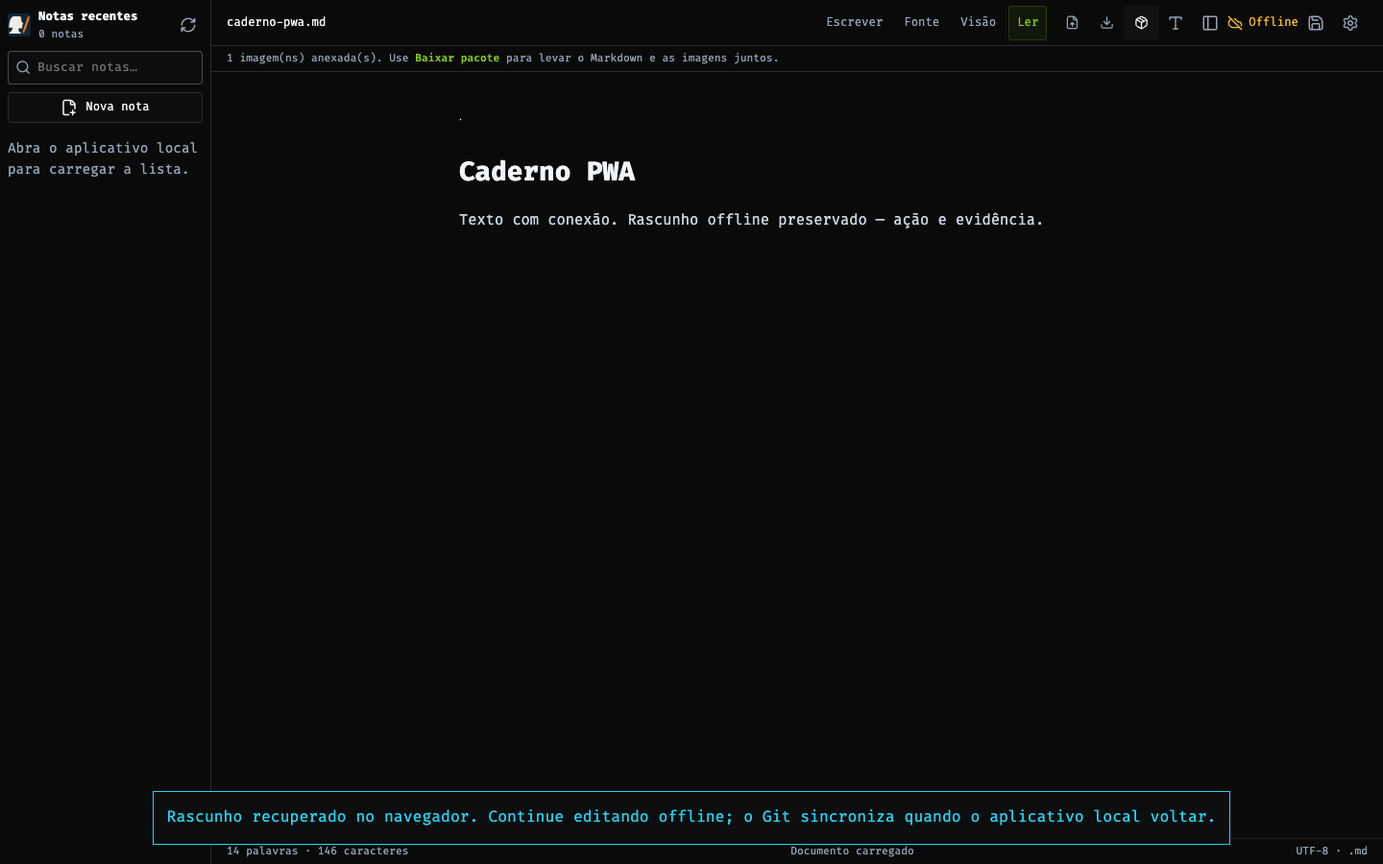
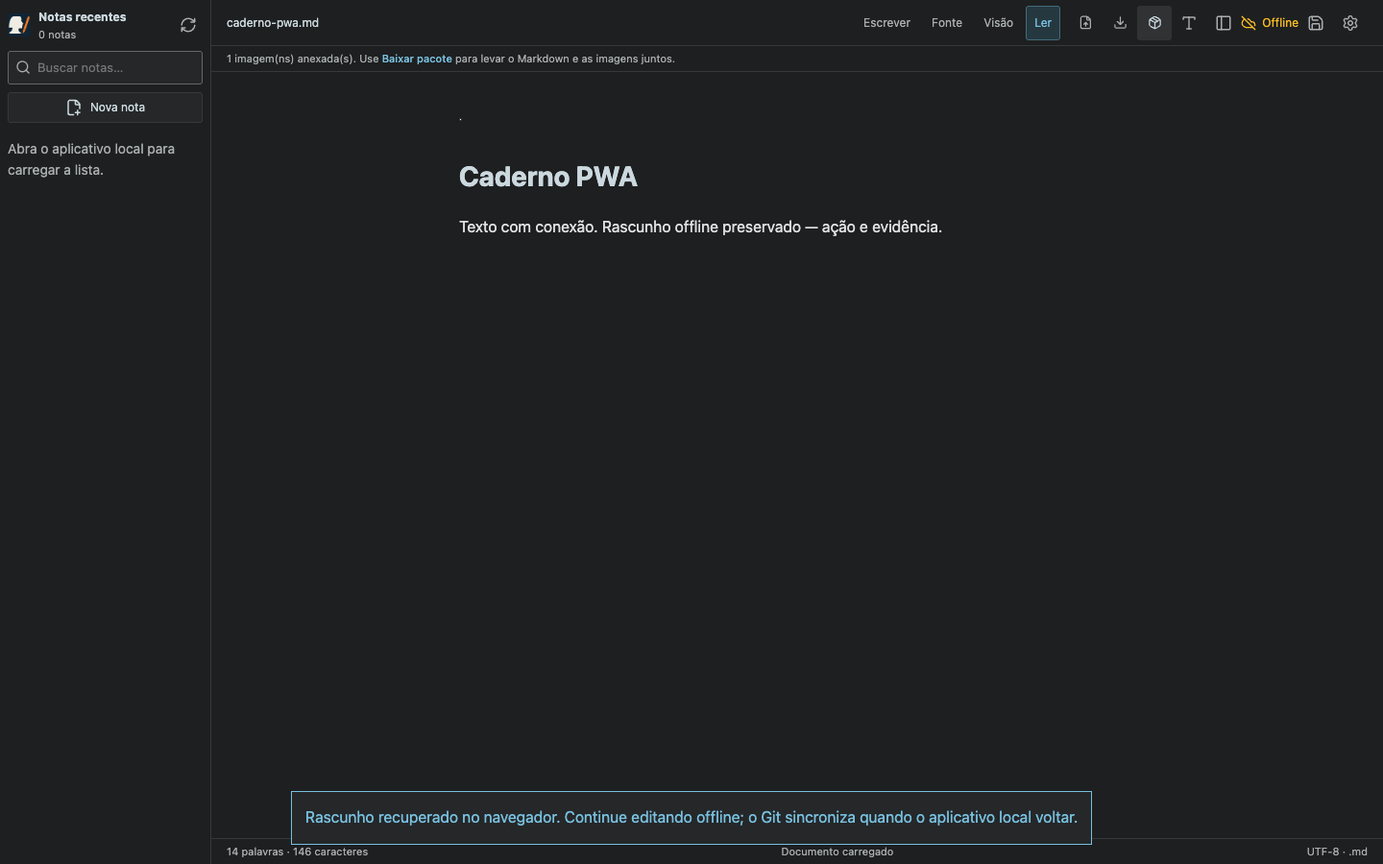
feat: pin notes, seed platform guide, group dates and soften reading theme

diff --git a/src/main.tsx b/src/main.tsx
@@ -1,7 +1,8 @@
 import { StrictMode, useCallback, useEffect, useRef, useState } from 'react';
 import { createRoot } from 'react-dom/client';
-import { FolderGit2, FolderOpen, Save, Upload, Sun, Moon, FilePlus2, Settings, X, Download, CloudOff, PanelLeft, FileText, RefreshCw, Search } from 'lucide-react';
+import { FolderGit2, FolderOpen, Save, Upload, Sun, Moon, FilePlus2, Settings, X, Download, CloudOff, PanelLeft, FileText, RefreshCw, Search, Pin, PinOff } from 'lucide-react';
 import { MarkdownWorkbench } from './components/Markdown/MarkdownWorkbench';
+import { noteGroup, shortNoteDate } from './lib/noteDates';
 import { usePwa } from './usePwa';
 import { authorizedFetch } from './lib/session';
 import { loadDraft, persistDraft, type DraftSnapshot } from './lib/drafts';
@@ -19,6 +20,14 @@ interface RecentNote {
   /** Markdown heading and short plain-text preview for the note list. */
   title?: string;
   preview?: string;
+}
+interface NoteLibrary {
+  /** Manually ordered pinned notes for the current checkout. */
+  pinned: RecentNote[];
+  /** Latest 100 non-pinned notes, newest first. */
+  recent: RecentNote[];
+  /** Initial guide synchronization may require a Git retry. */
+  synchronization?: SaveResult;
 }
 const brandIcon = '/icons/profile-v3/scribe-64.png';
 interface RepositoryInfo {
@@ -112,10 +121,16 @@ function App() {
   const [destination, setDestination] = useState('');
   const [files, setFiles] = useState<string[]>([]);
   const [recentNotes, setRecentNotes] = useState<RecentNote[]>([]);
+  const [pinnedNotes, setPinnedNotes] = useState<RecentNote[]>([]);
+  const [dateClock, setDateClock] = useState(Date.now());
+  useEffect(() => { const timer = window.setInterval(() => setDateClock(Date.now()), 60000); return () => window.clearInterval(timer); }, []);
   const [noteSearch, setNoteSearch] = useState('');
   const normalizeSearch = (text: string) => text.normalize('NFD').replace(/[\u0300-\u036f]/g, '').toLocaleLowerCase('pt-BR');
   const query = normalizeSearch(noteSearch.trim());
-  const visibleNotes = recentNotes.filter(note => !query || normalizeSearch(`${note.name} ${note.title || ''} ${note.preview || ''}`).includes(query));
+  const matchesNote = (note: RecentNote) => !query || normalizeSearch(`${note.name} ${note.title || ''} ${note.preview || ''}`).includes(query);
+  const visibleNotes = recentNotes.filter(matchesNote);
+  const visiblePinned = pinnedNotes.filter(matchesNote);
+  const noteGroups = [{label:'Fixadas', notes:visiblePinned, pinned:true}, ...['Hoje', 'Ontem', 'Últimos 7 dias', 'Mais antigas'].map(label => ({label, notes:visibleNotes.filter(note => noteGroup(note.modifiedAt, dateClock) === label), pinned:false}))].filter(group => group.notes.length);
   const [notesOpen, setNotesOpen] = useState(() => window.matchMedia('(min-width: 900px)').matches);
   const [selected, setSelected] = useState('');
   const [name, setName] = useState('documento.md');
@@ -144,10 +159,21 @@ function App() {
   const [theme, setTheme] = useState(() => localStorage.getItem('ab-markdown-theme') || 'dark');
   const dirty = value !== baseline || name !== loadedName;
   useEffect(() => { document.documentElement.dataset.theme = theme; localStorage.setItem('ab-markdown-theme', theme); }, [theme]);
+  async function refreshLibrary() {
+    const library = await api<NoteLibrary>('library/initialize', {});
+    setRecentNotes(library.recent); setPinnedNotes(library.pinned);
+    if (library.synchronization && !library.synchronization.synced) setError(`Guia criado localmente; sincronização pendente: ${library.synchronization.error}`);
+  }
+  async function togglePin(note: RecentNote, pinned: boolean) {
+    await run(async () => {
+      const library = await api<NoteLibrary>('pin', {name:note.name, pinned});
+      setRecentNotes(library.recent); setPinnedNotes(library.pinned);
+    });
+  }
   async function refresh() {
     const info = await api<RepositoryInfo>('repository'); setRepository(info);
     setFiles(info.repository ? await api<string[]>('files') : []);
-    setRecentNotes(info.repository ? await api<RecentNote[]>('recent') : []);
+    if (info.repository) await refreshLibrary(); else { setRecentNotes([]); setPinnedNotes([]); }
     return info;
   }
   useEffect(() => {
@@ -173,7 +199,7 @@ function App() {
           setSettingsOpen(true);
         } else {
           setRepository(info); setFiles(info.repository ? await api<string[]>('files') : []);
-          setRecentNotes(info.repository ? await api<RecentNote[]>('recent') : []);
+          if (info.repository) await refreshLibrary(); else { setRecentNotes([]); setPinnedNotes([]); }
           if (!info.repository) setSettingsOpen(true);
         }
         if (!active) return;
@@ -358,13 +384,16 @@ function App() {
     {!settingsOpen && statusMessages}
     <div className="editor-layout">
     {notesOpen && <aside id="recent-notes" className="notes-sidebar" aria-label="Notas recentes">
-      <div className="notes-heading"><img className="notes-logo" src={brandIcon} width="24" height="24" alt="Escriba egípcio — AB Markdown"/><div><h2>Notas recentes</h2><p>{query ? `${visibleNotes.length} de ${recentNotes.length}` : `${recentNotes.length} notas`}</p></div><button type="button" className="close-notes" aria-label="Fechar lista de notas" onClick={() => setNotesOpen(false)}><X size={18}/></button><button type="button" aria-label="Atualizar notas recentes" disabled={busy || !repository.repository || offline} onClick={() => void run(async () => { await refresh(); })}><RefreshCw size={18}/></button></div>
+      <div className="notes-heading"><img className="notes-logo" src={brandIcon} width="24" height="24" alt="Escriba egípcio — AB Markdown"/><div><h2>Notas recentes</h2><p>{query ? `${visibleNotes.length + visiblePinned.length} resultados` : `${recentNotes.length + pinnedNotes.length} notas`}</p></div><button type="button" className="close-notes" aria-label="Fechar lista de notas" onClick={() => setNotesOpen(false)}><X size={18}/></button><button type="button" aria-label="Atualizar notas recentes" disabled={busy || !repository.repository || offline} onClick={() => void run(async () => { await refresh(); })}><RefreshCw size={18}/></button></div>
       <label className="notes-search"><Search size={16} aria-hidden="true"/><input type="search" aria-label="Buscar nas notas recentes" placeholder="Buscar notas…" value={noteSearch} onChange={event => setNoteSearch(event.target.value)}/></label>
-      {query && !visibleNotes.length && <p className="notes-empty">Nenhuma nota encontrada.</p>}
+      {query && !visibleNotes.length && !visiblePinned.length && <p className="notes-empty">Nenhuma nota encontrada.</p>}
       <button className="new-note" type="button" disabled={busy || !draftReady} onClick={() => { if (discard()) { resetDocument(); if (window.matchMedia('(max-width: 899px)').matches) setNotesOpen(false); } }}><FilePlus2 size={18}/>Nova nota</button>
       {!repository.repository && <p className="notes-empty">Conecte um repositório nas configurações para listar suas notas.</p>}
-      {repository.repository && !recentNotes.length && <p className="notes-empty">{offline ? 'Abra o aplicativo local para carregar a lista.' : 'Nenhuma nota Markdown encontrada.'}</p>}
-      <nav aria-label="100 notas mais recentes"><ol>{visibleNotes.map(note => <li key={note.name}><button type="button" disabled={busy || !draftReady || offline} aria-current={name === note.name && version ? 'page' : undefined} title={note.name} aria-label={note.name} onClick={() => void openNote(note.name)}><FileText size={16}/><span><strong>{note.title || note.name.split('/').at(-1)}</strong>{note.preview && <span className="note-preview">{note.preview}</span>}{note.name.includes('/') && <small>{note.name.slice(0, note.name.lastIndexOf('/'))}</small>}<time dateTime={note.modifiedAt}>{new Date(note.modifiedAt).toLocaleString('pt-BR', {day:'2-digit', month:'2-digit', year:'numeric', hour:'2-digit', minute:'2-digit'})}</time></span></button></li>)}</ol></nav>
+      {repository.repository && !recentNotes.length && !pinnedNotes.length && <p className="notes-empty">{offline ? 'Abra o aplicativo local para carregar a lista.' : 'Nenhuma nota Markdown encontrada.'}</p>}
+      <nav aria-label="100 notas mais recentes">{noteGroups.map(group => <section className="note-group" key={group.label} aria-label={group.label}><h3>{group.label}</h3><ol>{group.notes.map(note => <li className="note-row" key={note.name} data-note={note.name}>
+        <button className="open-note" type="button" disabled={busy || !draftReady || offline} aria-current={name === note.name && version ? 'page' : undefined} title={note.name} aria-label={note.name} onClick={() => void openNote(note.name)}><span><strong>{note.title || note.name.split('/').at(-1)}</strong>{note.preview && <span className="note-preview">{note.preview}</span>}<time dateTime={note.modifiedAt} title={new Date(note.modifiedAt).toLocaleString('pt-BR')}>{group.pinned && <Pin size={11} aria-label="Nota fixada"/>}{shortNoteDate(note.modifiedAt, dateClock)}</time></span></button>
+        <button className="pin-note" type="button" disabled={busy || offline} aria-label={`${group.pinned ? 'Desafixar' : 'Fixar'} ${note.name}`} title={group.pinned ? 'Desafixar nota' : 'Fixar nota'} onClick={() => void togglePin(note, !group.pinned)}>{group.pinned ? <PinOff size={14}/> : <Pin size={14}/>}</button>
+      </li>)}</ol></section>)}</nav>
     </aside>}
     <fieldset disabled={!draftReady || busy} className="editor-container"><MarkdownWorkbench compact key={documentId} value={value} onChange={setValue} fileName={name} onFileNameChange={newName => { setName(newName); setVersion(null); setLoadedName(''); setImportedVersion(null); }} onImport={registerImport} initialAssets={initialAssets} onAssetsChange={handleAssets} saveRevision={saveRevision} readOnly={!draftReady || busy} actions={<>
       <button type="button" aria-controls="recent-notes" aria-expanded={notesOpen} aria-label={notesOpen ? 'Ocultar notas recentes' : 'Mostrar notas recentes'} title="Notas recentes" onClick={() => setNotesOpen(open => !open)}><PanelLeft size={18}/></button>

diff --git a/tests/sidebar.spec.ts b/tests/sidebar.spec.ts
@@ -8,7 +8,7 @@ for(const viewport of [{name:'desktop',width:1440,height:900},{name:'mobile',wid
   try {
    git('init','-b','main',repo);git('init','--bare','-b','main',remote);
    for(const [key,value] of [['user.name','Sidebar Test'],['user.email','sidebar@example.invalid'],['commit.gpgsign','false'],['core.hooksPath','/dev/null']])git('-C',repo,'config',key,value);
-   for(let i=0;i<105;i++){const filename=join(repo,`note-${String(i).padStart(3,'0')}.md`);await writeFile(filename,`# Nota ${i}\n\nConteúdo ${i}.`);const time=new Date(Date.UTC(2020,0,1,0,0,i));await utimes(filename,time,time);}
+   for(let i=0;i<105;i++){const filename=join(repo,`note-${String(i).padStart(3,'0')}.md`);await writeFile(filename,`# Nota ${i}\n\nConteúdo ${i}.`);const time=i>=102 ? new Date(Date.now()-(104-i)*86400000-2*3600000) : new Date(Date.UTC(2020,0,1,0,0,i));await utimes(filename,time,time);}
    git('-C',repo,'add','.');git('-C',repo,'commit','-m','Initial');git('-C',repo,'remote','add','origin',remote);git('-C',repo,'push','-u','origin','main');
    await page.setViewportSize(viewport);await page.goto('/');const settings=page.getByRole('dialog',{name:'Configurações',exact:true});await expect(settings).toBeVisible();
    if(!(await page.locator('details.repository').evaluate(el=>el.hasAttribute('open'))))await page.locator('details.repository > summary').click();
@@ -17,23 +17,31 @@ for(const viewport of [{name:'desktop',width:1440,height:900},{name:'mobile',wid
    const brand=page.locator('.notes-logo');await expect(brand).toBeVisible();await expect(brand).toHaveAttribute('src','/icons/profile-v3/scribe-64.png');
    expect(await brand.evaluate((el:HTMLImageElement)=>el.complete&&el.naturalWidth===64)).toBe(true);
    const favicon=page.locator('link[rel="icon"][type="image/png"]');await expect(favicon).toHaveAttribute('href','/icons/profile-v3/scribe-32.png');expect((await page.request.get((await favicon.getAttribute('href'))!)).status()).toBe(200);
-   const sidebar=page.getByRole('complementary',{name:'Notas recentes'});await expect(sidebar.locator('nav li')).toHaveCount(100);await expect(sidebar.locator('nav strong').first()).toHaveText('Nota 104');await expect(sidebar.locator('nav strong').last()).toHaveText('Nota 5');
+   const sidebar=page.getByRole('complementary',{name:'Notas recentes'});const recent=sidebar.locator('nav section:not([aria-label="Fixadas"])');const pinned=sidebar.getByRole('region',{name:'Fixadas',exact:true});await expect(pinned.locator('strong').first()).toHaveText('AB Markdown — Guia da plataforma');await expect(recent.locator('li')).toHaveCount(100);await expect(recent.locator('strong').first()).toHaveText('Nota 104');await expect(recent.locator('strong').last()).toHaveText('Nota 5');
+   await sidebar.getByRole('button',{name:'Fixar note-104.md',exact:true}).click();await expect(pinned.locator('strong')).toHaveText(['AB Markdown — Guia da plataforma','Nota 104']);
+   await sidebar.getByRole('button',{name:'Desafixar note-104.md',exact:true}).click();await expect(pinned.locator('strong')).toHaveCount(1);
+   await expect(sidebar.getByRole('heading',{name:'Hoje',exact:true})).toBeVisible();await expect(sidebar.getByRole('heading',{name:'Ontem',exact:true})).toBeVisible();await expect(sidebar.getByRole('heading',{name:'Últimos 7 dias',exact:true})).toBeVisible();
+   await expect(sidebar.locator('[data-note="note-104.md"] time')).toContainText(/há 2 h/);
    await expect(page.locator('.editor-brandbar')).toHaveCount(0);
    const search=page.getByRole('searchbox',{name:'Buscar nas notas recentes'});
-   await search.fill('NOTA 104');await expect(sidebar.locator('nav li')).toHaveCount(1);
-   await search.fill('Conteudo 103');await expect(sidebar.locator('nav li')).toHaveCount(1);await expect(sidebar.locator('nav strong').first()).toHaveText('Nota 103');
-   await search.fill('note-102.md');await expect(sidebar.locator('nav li')).toHaveCount(1);
-   await search.fill('inexistente');await expect(sidebar.locator('nav li')).toHaveCount(0);await expect(sidebar).toContainText('Nenhuma nota encontrada.');
-   await search.fill('');await expect(sidebar.locator('nav li')).toHaveCount(100);
-   await expect(sidebar.locator('.note-preview').first()).toContainText('Conteúdo 104');
+   await search.fill('NOTA 104');await expect(recent.locator('li')).toHaveCount(1);
+   await search.fill('Conteudo 103');await expect(recent.locator('li')).toHaveCount(1);await expect(recent.locator('strong').first()).toHaveText('Nota 103');
+   await search.fill('note-102.md');await expect(recent.locator('li')).toHaveCount(1);
+   await search.fill('inexistente');await expect(recent.locator('li')).toHaveCount(0);await expect(sidebar).toContainText('Nenhuma nota encontrada.');
+   await search.fill('');await expect(recent.locator('li')).toHaveCount(100);
+   await expect(recent.locator('.note-preview').first()).toContainText('Conteúdo 104');
    expect(await page.evaluate(()=>document.documentElement.scrollHeight<=innerHeight)).toBe(true);
    await page.screenshot({path:`docs/evidence/${viewport.name}-recent-notes-dark.png`,fullPage:true});
-   await sidebar.getByRole('button',{name:/note-104.md/}).click();await page.getByRole('button',{name:'Fonte',exact:true}).click();await page.getByRole('button',{name:'Mostrar formatação'}).click();await expect(page.getByRole('button',{name:'Negrito',exact:true})).toBeVisible();await page.getByRole('button',{name:'Ocultar formatação'}).click();const source=page.locator('.cm-content');await expect(source).toContainText('Conteúdo 104');await source.click();await page.keyboard.insertText('Edição preservada');
+   await pinned.getByRole('button',{name:'AB-Markdown-Guia.md',exact:true}).click();await page.getByRole('button',{name:'Ler',exact:true}).click();await expect(page.locator('article')).toContainText('Roadmap previsto');
+   expect(await page.locator('article').evaluate(el=>getComputedStyle(el).fontFamily)).not.toContain('mono');
+   await page.screenshot({path:`docs/evidence/${viewport.name}-guide-reading-dark.png`,fullPage:true});
    if(viewport.name==='mobile')await page.getByRole('button',{name:'Mostrar notas recentes'}).click();
-   page.once('dialog',dialog=>dialog.dismiss());await sidebar.getByRole('button',{name:/note-103.md/}).click();await expect(source).toContainText('Edição preservada');
-   page.once('dialog',dialog=>dialog.accept());await sidebar.getByRole('button',{name:/note-103.md/}).click();await page.getByRole('button',{name:'Fonte',exact:true}).click();await expect(source).toContainText('Conteúdo 103');await source.click();await page.keyboard.insertText('Atualizado');
+   await sidebar.getByRole('button',{name:'note-104.md',exact:true}).click();await page.getByRole('button',{name:'Fonte',exact:true}).click();await page.getByRole('button',{name:'Mostrar formatação'}).click();await expect(page.getByRole('button',{name:'Negrito',exact:true})).toBeVisible();await page.getByRole('button',{name:'Ocultar formatação'}).click();const source=page.locator('.cm-content');await expect(source).toContainText('Conteúdo 104');await source.click();await page.keyboard.insertText('Edição preservada');
+   if(viewport.name==='mobile')await page.getByRole('button',{name:'Mostrar notas recentes'}).click();
+   page.once('dialog',dialog=>dialog.dismiss());await sidebar.getByRole('button',{name:'note-103.md',exact:true}).click();await expect(source).toContainText('Edição preservada');
+   page.once('dialog',dialog=>dialog.accept());await sidebar.getByRole('button',{name:'note-103.md',exact:true}).click();await page.getByRole('button',{name:'Fonte',exact:true}).click();await expect(source).toContainText('Conteúdo 103');await source.click();await page.keyboard.insertText('Atualizado');
    await page.getByRole('button',{name:'Salvar no repositório',exact:true}).click();await expect(page.getByRole('status')).toHaveText('Arquivo salvo, commit criado e enviado ao remoto.');
-   if(viewport.name==='mobile')await page.getByRole('button',{name:'Mostrar notas recentes'}).click();await expect(sidebar.locator('nav strong').first()).toHaveText('Nota 103');
+   if(viewport.name==='mobile')await page.getByRole('button',{name:'Mostrar notas recentes'}).click();await expect(recent.locator('strong').first()).toHaveText('Nota 103');
    await page.getByRole('button',{name:'Configurações',exact:true}).click();await page.getByRole('button',{name:'Usar tema claro'}).click();await settings.getByRole('button',{name:'Fechar',exact:true}).click();
    await page.screenshot({path:`docs/evidence/${viewport.name}-recent-notes-light.png`,fullPage:true});expect(await page.evaluate(()=>document.documentElement.scrollWidth<=innerWidth)).toBe(true);
   }finally{await rm(temporary,{recursive:true,force:true});}

diff --git a/src/style.css b/src/style.css
@@ -136,3 +136,17 @@ textarea { font: inherit; font-size: 16px; color: var(--text-primary); backgroun
 @media (max-width: 899px) { .notes-search input { min-height: 44px; font-size: 16px; } }
 .notes-heading .close-notes { display: none; }
 @media (max-width: 899px) { .notes-heading .close-notes { display: inline-flex; min-width: 44px; min-height: 44px; } }
+
+body { font-family: var(--font-ui); }
+.notes-sidebar nav strong, .note-preview, .notes-sidebar time { font-family: var(--font-ui); }
+.note-group h3 { color: var(--text-muted); font: 600 11px/1.5 var(--font-ui); margin: 16px 8px 4px; letter-spacing: .03em; }
+.note-row { position: relative; }
+.notes-sidebar nav .open-note { padding-right: 28px; }
+.notes-sidebar nav .pin-note { position: absolute; top: 5px; right: 0; width: 28px; min-height: 28px; padding: 6px; opacity: 0; }
+.notes-sidebar nav .pin-note svg { display: block; margin: 0; color: var(--text-muted); }
+.note-row:hover .pin-note, .note-row:focus-within .pin-note { opacity: 1; }
+.notes-sidebar time { display: flex; align-items: center; gap: 5px; }
+.notes-sidebar time svg { display: inline-block; margin: 0; color: var(--cyan); }
+@media (hover: none) { .notes-sidebar nav .pin-note { opacity: 1; } }
+@media (max-width: 899px) { .notes-sidebar nav .pin-note { opacity: 1; width: 44px; min-height: 44px; } .notes-sidebar nav .open-note { padding-right: 44px; } }
+.notes-sidebar nav .open-note time svg { display: inline-block; margin: 0; color: var(--cyan); }

diff --git a/src/lib/noteDates.ts b/src/lib/noteDates.ts
@@ -1,0 +1,21 @@
+/** Local-calendar groups keep yesterday stable across daylight-saving changes. */
+export function noteGroup(iso: string, now = Date.now()): string {
+  const today = new Date(now); today.setHours(0, 0, 0, 0);
+  const yesterday = new Date(today); yesterday.setDate(yesterday.getDate() - 1);
+  const week = new Date(today); week.setDate(week.getDate() - 7);
+  const stamp = Date.parse(iso);
+  return stamp >= +today ? 'Hoje' : stamp >= +yesterday ? 'Ontem' : stamp >= +week ? 'Últimos 7 dias' : 'Mais antigas';
+}
+/** Short metadata stays useful without repeating full timestamps on every row. */
+export function shortNoteDate(iso: string, now = Date.now()): string {
+  const elapsed = Math.max(0, now - Date.parse(iso));
+  if (elapsed < 60000) return 'agora';
+  const relative = new Intl.RelativeTimeFormat('pt-BR', {style:'short', numeric:'always'});
+  if (elapsed < 3600000) return relative.format(-Math.floor(elapsed / 60000), 'minute');
+  if (elapsed < 86400000) return relative.format(-Math.floor(elapsed / 3600000), 'hour');
+  if (noteGroup(iso, now) === 'Ontem') return 'ontem';
+  if (elapsed < 7 * 86400000) return relative.format(-Math.floor(elapsed / 86400000), 'day');
+  const date = new Date(iso);
+  const month = date.toLocaleDateString('pt-BR', {month:'short'}).replace('.', '');
+  return `${date.getDate()} ${month}${date.getFullYear() !== new Date(now).getFullYear() ? ` ${date.getFullYear()}` : ''}`;
+}

diff --git a/src/tokens.css b/src/tokens.css
@@ -929,3 +929,23 @@
   --scribe-orange: #ff7a18;
   --scribe-paper: #f1eee5;
 }
+
+/* Standalone reading palette: soft charcoal, warm paper and restrained blue accents. */
+:root, [data-theme="dark"] {
+  --font-ui: -apple-system, BlinkMacSystemFont, "Segoe UI", sans-serif;
+  --bg-base: #1e1f20; --bg-surface: #1e1f20; --bg-input: #252729;
+  --bg-elevated: #303234; --bg-subtle: #292b2d; --bg-hover: #2b2d2f; --bg-overlay: #252729;
+  --border-panel: #36393b; --border-base: #36393b; --border-strong: #62686c;
+  --text-primary: #cbd9df; --text-secondary: #dedfdf; --text-muted: #a9aeb1;
+  --text-dim: #a9aeb1; --text-label: #a9aeb1;
+  --lime: #78c0df; --cyan: #78c0df; --lime-dim: #426c7e; --lime-trace: #26383f;
+}
+[data-theme="light"] {
+  --font-ui: -apple-system, BlinkMacSystemFont, "Segoe UI", sans-serif;
+  --bg-base: #faf9f6; --bg-surface: #faf9f6; --bg-input: #f0efeb;
+  --bg-elevated: #e5e8e7; --bg-subtle: #eeefec; --bg-hover: #e9ece9; --bg-overlay: #f4f3ef;
+  --border-panel: #d4d8d6; --border-base: #d4d8d6; --border-strong: #7d8588;
+  --text-primary: #283842; --text-secondary: #30383b; --text-muted: #5c666b;
+  --text-dim: #5c666b; --text-label: #5c666b;
+  --lime: #17627e; --cyan: #17627e; --lime-dim: #718e9a; --lime-trace: #e1edf0;
+}

diff --git a/src/components/Markdown/MarkdownWorkbench.tsx b/src/components/Markdown/MarkdownWorkbench.tsx
@@ -128,7 +128,7 @@ export function MarkdownWorkbench({ value, onChange, fileName, onFileNameChange,
   }
 
   const [formattingOpen, setFormattingOpen] = useState(false);
-  return <section className={`${styles.workbench} ${compact ? styles.compact : ''}`} aria-label="Bancada Markdown" aria-busy={busy}>
+  return <section className={`${styles.workbench} ${compact ? styles.compact : ''}`} data-mode={mode} aria-label="Bancada Markdown" aria-busy={busy}>
     <header className={styles.toolbar}>
       <div className={styles.filename}><FileText size={16} aria-hidden="true"/><span title={fileName}>{fileName}</span>{dirty && <span className={styles.dot} aria-label="Documento alterado"/>}</div>
       <div className={styles.modes} role="group" aria-label="Modo de edição">

diff --git a/src/components/Markdown/MarkdownWorkbench.module.css b/src/components/Markdown/MarkdownWorkbench.module.css
@@ -105,3 +105,8 @@
  .compact .reading { padding: 24px 20px 64px; }
  .compact .footer > span:nth-child(2) { display: none; }
 }
+
+.compact { font-family: var(--font-ui); }
+.compact .reading { font-family: var(--font-ui); font-size: 16px; line-height: 1.75; }
+.compact[data-mode="live"] .cm-content { font-family: var(--font-ui); font-size: 16px; line-height: 1.75; }
+.compact .reading code, .compact .reading pre { font-family: var(--font-mono); }

diff --git a/docs/VALIDATION.md b/docs/VALIDATION.md
@@ -10,7 +10,7 @@ Ambiente: macOS Darwin 25.6.0, Apple Silicon. Aplicação instalada em `~/Applic
 - Abertura pelo ícone, resposta saudável do servidor em loopback e carregamento do editor.
 - Seleção de pasta real no diálogo nativo do macOS; retorno do caminho confirmado.
 - Cancelamento do diálogo pela API da aplicação instalada: HTTP 200, `directory: null`.
-- 24 testes HTTP com Git real: sessão/origem/host, conexão e listagem, texto/imagens, conflitos, caminhos inválidos/symlinks, gravações concorrentes, commit seletivo e push, proteção de stage, rejeição de credenciais na URL e clonagem HTTPS com CA local; save/commit/push automático, ausência de commits vazios, retry após falha de push sem commit duplicado, recuperação de hook, primeiro upstream e preferências persistidas em novo processo.
+- 25 testes HTTP com Git real: sessão/origem/host, conexão e listagem, texto/imagens, conflitos, caminhos inválidos/symlinks, gravações concorrentes, commit seletivo e push, proteção de stage, rejeição de credenciais na URL e clonagem HTTPS com CA local; save/commit/push automático, ausência de commits vazios, retry após falha de push sem commit duplicado, recuperação de hook, primeiro upstream e preferências persistidas em novo processo.
 - 8 jornadas Playwright: desktop 1440×900 e celular 390×844. Selecionar/cancelar pasta, conectar, escolher destino de clone, editar, inserir imagem, salvar, commit/push automáticos e reabrir com imagens; relógio do navegador simula ciclos de 1 e 2 minutos com Git/HTTP reais, nota obrigatória, cancelamento sem gravação, ⌘S e persistência das preferências.
 - Regressão do conflito: importação pelo seletor, abertura pela lista, arquivo sem histórico Git, salvamento repetido após perda de resposta, hash original válido/inválido, cópia de recuperação, substituição com backup e rejeição de confirmação desatualizada.
 - Interface focada no editor após configuração, inclusive ao recarregar; engrenagem abre configurações; Escape fecha sem perder o texto; gravação disponível na barra e por ⌘S.
@@ -44,8 +44,14 @@ Jornadas desktop/mobile criam 105 notas, verificam exatamente 100 entradas orden
 
 Cabeçalho reduzido de 96 para 48 px; lateral de 264 para 220 px; barras de ajuda removidas visualmente e formatação recolhida por padrão. Importação/exportação mantêm nomes acessíveis e dicas, usando botões de ícone. Lista e documento têm rolagem independente e o shell cabe em 100dvh, sem rolagem da página. A lista usa título do Markdown e trecho textual obtidos de até 8 KB por arquivo, com leitura em lotes de 32; conteúdo aparece como texto, sem execução de HTML.
 
-As 8 jornadas de navegador passaram nos dois tamanhos, incluindo abrir/recolher formatação, lista com título/trecho, limite de altura da janela e os fluxos anteriores de edição/Git/offline. Os 24 testes HTTP também passaram. Capturas atualizadas nos temas claro e escuro.
+As 8 jornadas de navegador passaram nos dois tamanhos, incluindo abrir/recolher formatação, lista com título/trecho, limite de altura da janela e os fluxos anteriores de edição/Git/offline. Os 25 testes HTTP também passaram. Capturas atualizadas nos temas claro e escuro.
 
 ## Remoção da faixa superior e busca
 
 Faixa de marca acima do workspace removida; logo mantida apenas no cabeçalho da lista. Controle da lateral transferido para a barra do editor. Busca local por título, trecho e nome/caminho das 100 notas recentes, com normalização de caixa e acentos, contagem de resultados e estado vazio. Jornadas desktop/mobile verificam título em maiúsculas, busca sem acento, nome do arquivo, resultado inexistente e restauração das 100 entradas ao limpar.
+
+## Fixadas, guia inicial, períodos e tipografia
+
+25 testes HTTP aprovados, incluindo criação única do guia com commit/push a remoto Git real, ausência de novo commit ao reinicializar, pins persistidos e isolados por checkout, desafixar sem alterar HEAD e rejeição de caminho inválido. As 8 jornadas completas passaram; as 2 jornadas da lateral foram ampliadas e repetidas para validar períodos (hoje/ontem/últimos 7 dias), “há 2 h”, guia como primeira fixada, fixar/desafixar, busca e leitura sem fonte monoespaçada.
+
+Paleta local suave nos dois temas, alterada nos tokens. Contraste na superfície selecionada, o caso mais desfavorável: tema escuro texto 9,64:1 / secundário 5,75:1 / acento 6,38:1; tema claro texto 9,71:1 / secundário 4,77:1 / acento 5,52:1. Código e Fonte preservam monoespaçada. Capturas de leitura do guia e lista com grupos em desktop e celular.

diff --git a/server/guide.md b/server/guide.md
@@ -1,0 +1,38 @@
+# AB Markdown — Guia da plataforma
+
+Um espaço local para escrever, organizar e versionar notas Markdown no seu próprio repositório Git.
+
+## Como começar
+
+1. Abra as configurações pela engrenagem e selecione a pasta de um repositório Git, ou clone um repositório com suas credenciais locais.
+2. Escolha uma nota na lateral ou crie uma nova. Use a busca para filtrar as notas por título, trecho e caminho.
+3. Salve pelo botão de disquete ou por ⌘S. O editor grava o Markdown e as imagens, cria um commit e faz push com as credenciais do seu Mac.
+
+## Funcionalidades disponíveis
+
+- Editor Markdown com modos Escrever, Fonte, Visão e Ler.
+- Formatação pelo botão T, atalhos, tabelas, listas, links, imagens e referências.
+- Importação de Markdown, ZIP e pacotes Bear; exportação de Markdown ou ZIP com imagens.
+- Até 100 notas recentes agrupadas por período, datas curtas e busca sem diferenciação de acentos.
+- Notas fixadas no topo. Use o alfinete de cada nota para fixar ou desafixar; esta é a primeira nota fixada por padrão.
+- Salvamento com commit/push automático, nota de commit opcional e salvamento periódico configurável (intervalo padrão de 1 minuto).
+- Rascunhos e imagens preservados no navegador e disponíveis offline após o primeiro carregamento.
+- Temas claro e escuro, alteráveis em Configurações → Aparência.
+- Resolução de conflitos com cópia de recuperação e backup antes de substituir versões externas.
+
+## Onde seus dados ficam
+
+Os documentos e as imagens ficam no repositório escolhido. Rascunhos ficam neste navegador. Preferências e a ordem das notas fixadas ficam no Mac, separadas por repositório. Fixar uma nota não altera seu conteúdo nem cria um commit. Esta nota de apresentação é um arquivo Markdown normal, incluído no checkout e sincronizado ao criá-la; você pode editá-la ou removê-la.
+
+O aplicativo local deve estar aberto para acessar os arquivos e executar Git. Push precisa de conexão ao remoto. Se a sincronização falhar, o arquivo local é preservado e o editor informa a etapa pendente.
+
+## Roadmap previsto
+
+- **Google Drive:** conectar uma pasta do Drive e sincronizar notas, com indicação de estado e tratamento de conflitos. Ainda não disponível.
+- **Temas:** ampliar a troca de tema com novas opções de aparência e personalização de leitura. Claro/escuro já estão disponíveis nas configurações.
+
+Os itens acima são planos, sem data de entrega anunciada.
+
+---
+
+Powered by **Aeon Bridge Co.** — offered to community.

diff --git a/README.md b/README.md
@@ -89,3 +89,13 @@ A logo aparece no cabeçalho do editor. Favicon e ícones PWA usam URLs novas pa
 O layout usa a altura inteira da janela: lista e documento rolam separadamente. A lateral mostra o título Markdown, um trecho e a data da nota; nomes longos são limitados a duas linhas. A barra principal usa ícones com rótulos acessíveis. Clique em **T (Formatação)** para abrir ou recolher as ferramentas de edição. No celular, a lista abre sobre o documento e fecha ao escolher uma nota.
 
 A faixa superior foi removida: o documento e a lateral começam no topo da janela. O controle **Notas recentes** fica na barra do editor. A busca na lateral filtra as 100 notas carregadas por título, trecho e caminho do arquivo, sem diferenciar maiúsculas ou acentos. Limpar a busca restaura a lista; ela não pesquisa o conteúdo completo de todas as notas do repositório.
+
+## Notas fixadas, períodos e leitura
+
+As notas são agrupadas em **Fixadas**, **Hoje**, **Ontem**, **Últimos 7 dias** e **Mais antigas**. Datas aparecem como “agora”, “há 2 h”, “ontem” ou uma data curta; a data completa fica na dica ao passar o ponteiro. O alfinete aparece ao passar o ponteiro ou focar a linha pelo teclado, e permanece disponível em telas de toque.
+
+A lista contém até 100 notas recentes **além das fixadas**. A ordem de fixação é lembrada no Mac por repositório (`library.json` em Application Support). Fixar ou desafixar não altera o Markdown nem faz commit.
+
+Na primeira abertura de cada repositório, o editor inclui e fixa **AB-Markdown-Guia.md**, com apresentação, funcionalidades e roadmap. A criação tenta commit/push automaticamente; se não conseguir, o arquivo local permanece e o editor informa a falha. Arquivos já existentes nunca são substituídos: outro nome é escolhido. A nota pode ser editada e desafixada como qualquer outra. O [conteúdo do guia](server/guide.md) também está neste repositório.
+
+O roadmap prevê Google Drive e novas opções de temas, sem datas anunciadas. A troca entre claro e escuro já está disponível em **Configurações → Aparência**. A leitura usa fonte de sistema sem serifa e cores suaves; código e modo Fonte continuam monoespaçados.

diff --git a/docs/evidence/README.md b/docs/evidence/README.md
@@ -71,3 +71,11 @@ Repositório sintético com 105 notas: a barra lateral limita a lista às 100 ma
 ![Celular com notas, escuro](mobile-recent-notes-dark.png)
 
 ![Celular com notas, claro](mobile-recent-notes-light.png)
+
+## Guia fixado, períodos e leitura suave
+
+A primeira nota fixada explica a plataforma, os recursos e o roadmap de Google Drive/temas. As capturas da lista acima agora mostram períodos e datas curtas. Os testes usam notas com datas de hoje, ontem e dias anteriores, e validam fixar/desafixar sem modificar o Git.
+
+![Guia em leitura, desktop escuro](desktop-guide-reading-dark.png)
+
+![Guia em leitura, celular escuro](mobile-guide-reading-dark.png)
